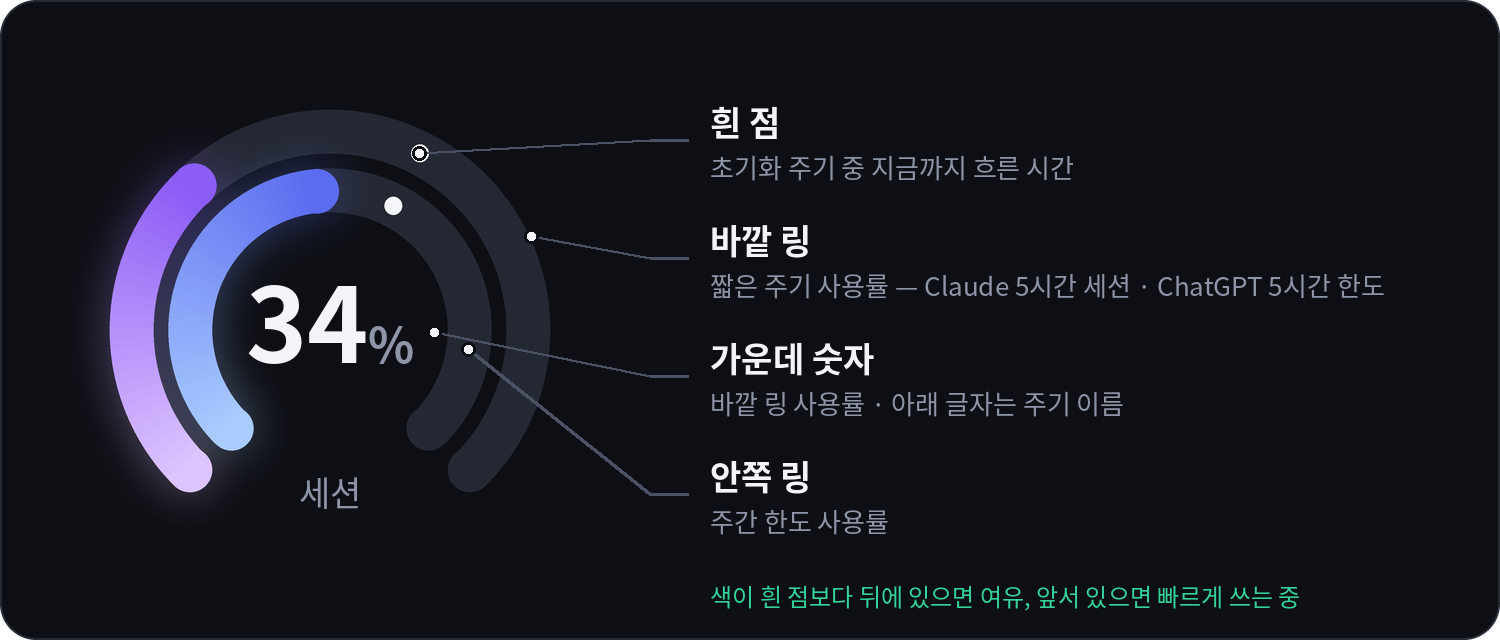
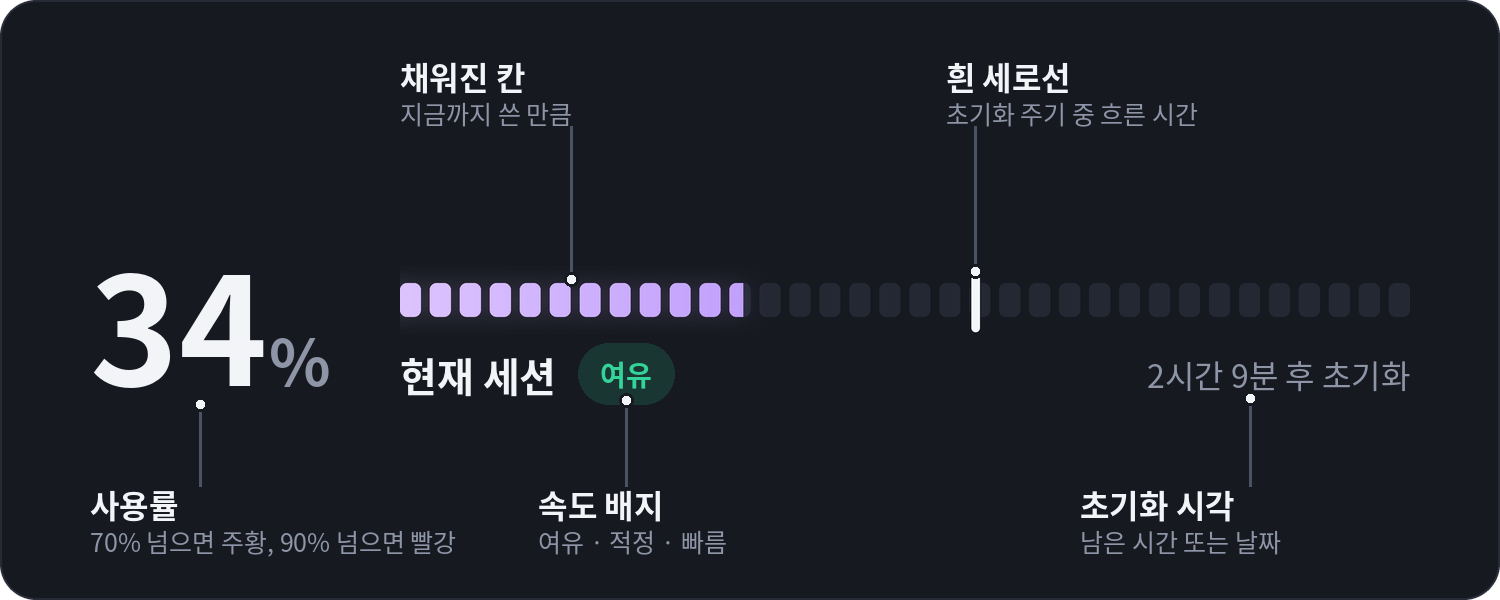
Replace circular gauges with a segmented bar dashboard
The v4 dial was still a ring at heart, so drop the circular layout
entirely.

Widget (v5):
- Each limit is one row: big percentage on the left, an LED-style
  segmented bar on the right, and the name, pace badge and reset time
  under the bar
- Elapsed time is a white vertical line on the bar instead of a dot
- Big numbers turn amber at 70% and red at 90%
- Mini mode becomes a slim horizontal strip (number + two bars per
  service) instead of two square rings
- Cards, badges, colors, menus and the config file are unchanged

README and docs:
- New banner, anatomy diagram and color-state image (states.png
  replaces rings.png); wording updated from rings to bars
- Work log gains a v5 entry

Claude-Session: https://claude.ai/code/session_01Jea19iukP2LCmx2sdgRbVw

diff --git a/README.md b/README.md
@@ -17,7 +17,7 @@
 
 <br>
 
-사용량 페이지에 매번 들어가지 않아도 됩니다. 화면 구석에 떠 있는 다이얼 하나로 **지금 얼마나 썼는지**, **언제 초기화되는지**, **이 속도로 써도 괜찮은지**를 바로 확인할 수 있습니다.
+사용량 페이지에 매번 들어가지 않아도 됩니다. 화면 구석에 떠 있는 작은 대시보드로 **지금 얼마나 썼는지**, **언제 초기화되는지**, **이 속도로 써도 괜찮은지**를 바로 확인할 수 있습니다.
 
 > [!WARNING]
 > Anthropic·OpenAI의 공식 앱이 아닙니다. 각 사이트의 사용량 페이지가 내부적으로 쓰는 주소를 불러오는 방식이므로,
@@ -37,13 +37,13 @@
     </td>
     <td width="33%" valign="top">
       <b>⏱ 사용 속도 진단</b><br>
-      <sub>다이얼 위의 흰 점이 초기화 주기 중 흐른 시간을 보여 주고, <i>여유 · 적정 · 빠름</i> 배지로 속도를 알려 줍니다.</sub>
+      <sub>막대 위의 흰 세로선이 초기화 주기 중 흐른 시간을 보여 주고, <i>여유 · 적정 · 빠름</i> 배지로 속도를 알려 줍니다.</sub>
     </td>
   </tr>
   <tr>
     <td valign="top">
       <b>🪟 미니 모드</b><br>
-      <sub>더블클릭 한 번이면 다이얼만 남는 작은 창으로 바뀝니다. 작업 화면을 가리지 않습니다.</sub>
+      <sub>더블클릭 한 번이면 얇은 가로 띠 모양의 작은 창으로 바뀝니다. 화면 가장자리에 두기 좋습니다.</sub>
     </td>
     <td valign="top">
       <b>🔌 간편한 연결</b><br>
@@ -93,7 +93,7 @@ pip install pillow curl_cffi
 
 | 패키지 | 용도 |
 |---|---|
-| `pillow` | 다이얼 게이지 그리기 — **필수** |
+| `pillow` | 막대·배지 그리기 — **필수** |
 | `curl_cffi` | 사이트의 자동 요청 차단 피하기 — ChatGPT는 사실상 필수 |
 
 ### 2. Claude 세션 키 복사
@@ -231,24 +231,26 @@ nohup python3 claude_usage_widget.pyw >/dev/null 2>&1 &
 ## 화면 읽는 법
 
 <p align="center">
-  <img src="docs/images/anatomy.png" width="100%" alt="다이얼 각 부분 설명: 바깥 링, 안쪽 링, 흰 점, 가운데 숫자">
+  <img src="docs/images/anatomy.png" width="100%" alt="화면 각 부분 설명: 사용률, 채워진 칸, 흰 세로선, 속도 배지, 초기화 시각">
 </p>
 
-| 서비스 | 바깥 링 | 안쪽 링 |
+| 서비스 | 위 막대 | 아래 막대 |
 |---|---|---|
 | Claude | 현재 세션 (5시간) | 주간 한도 |
 | ChatGPT | 5시간 한도 | 주간 한도 |
 
-<sub>ChatGPT는 요금제에 따라 주간 한도 링 하나만 나올 수 있습니다.</sub>
+<sub>ChatGPT는 요금제에 따라 주간 한도 막대 하나만 나올 수 있습니다.</sub>
 
-- **가운데 숫자**는 바깥 링(짧은 주기)의 사용률이며, 다이얼 아래 열린 자리에 주기 이름이 표시됩니다. 미니 모드에서는 이 자리에 `Claude` / `GPT`가 표시됩니다.
-- **흰 점**은 리셋 주기 중 지금까지 흐른 시간입니다. **색이 흰 점보다 앞서 있으면** 시간에 비해 빠르게 쓰고 있다는 뜻입니다.
+- **큰 숫자**는 해당 한도의 사용률입니다. 평소에는 흰색이며, 70%를 넘으면 주황, 90%를 넘으면 빨강으로 바뀝니다.
+- **채워진 칸**은 지금까지 쓴 만큼입니다. 마지막 칸은 남은 비율만큼만 채워집니다.
+- **흰 세로선**은 리셋 주기 중 지금까지 흐른 시간입니다. **채워진 칸이 흰 세로선보다 앞서 있으면** 시간에 비해 빠르게 쓰고 있다는 뜻입니다.
 - **카드 제목** 옆의 점은 서비스 표시이며, ChatGPT는 요금제(`PLUS` 등)가 오른쪽 배지로 함께 표시됩니다.
+- **미니 모드**는 얇은 가로 띠 모양입니다. 서비스마다 짧은 주기 사용률(큰 숫자)과 막대 두 개(위: 짧은 주기, 아래: 주간)를 보여 줍니다.
 
 ### 색상 단계
 
 <p align="center">
-  <img src="docs/images/rings.png" width="100%" alt="색상 단계: 평소, 70% 이상 주의, 90% 이상 위험">
+  <img src="docs/images/states.png" width="100%" alt="색상 단계: 평소, 70% 이상 주의, 90% 이상 위험">
 </p>
 
 | 상태 | 색 |
@@ -260,7 +262,7 @@ nohup python3 claude_usage_widget.pyw >/dev/null 2>&1 &
 
 ### 속도 배지
 
-자세히 보기 모드에서 각 한도 오른쪽에 표시됩니다. 주기가 10% 이상 지난 뒤부터 나타납니다.
+자세히 보기 모드에서 각 한도 이름 옆에 표시됩니다. 주기가 10% 이상 지난 뒤부터 나타납니다.
 
 | 배지 | 의미 |
 |---|---|
@@ -381,7 +383,7 @@ llm-usage/
 └── README.md
 ```
 
-막대 그래프에서 네온 링, 다이얼 디자인에 이르기까지의 개발 과정은 [docs/작업정리.md](docs/작업정리.md)에 정리되어 있습니다.
+첫 막대 그래프부터 네온 링을 거쳐 지금의 막대 대시보드에 이르기까지의 개발 과정은 [docs/작업정리.md](docs/작업정리.md)에 정리되어 있습니다.
 
 ## 알려진 한계
 
